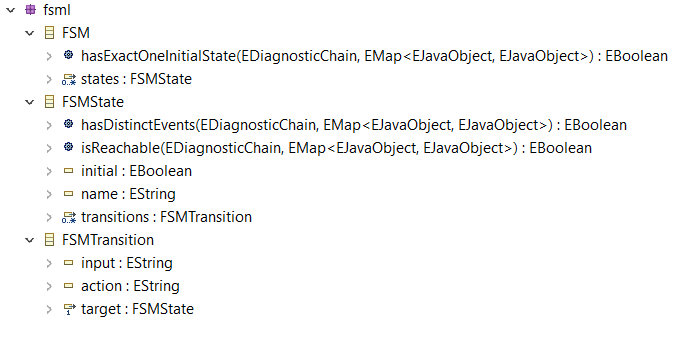
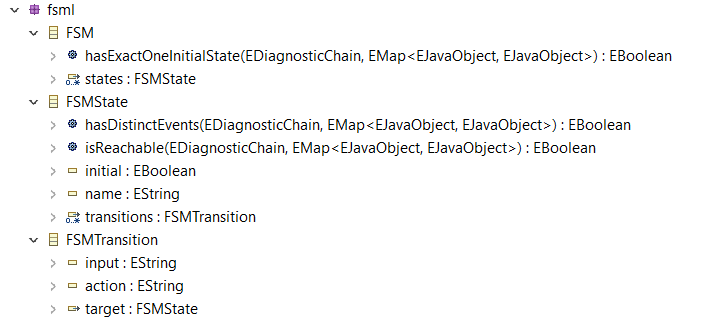
changes 1234DD

Changed region(s): [[0.0, 0.0, 0.9669, 0.9552]]

diff --git a/emf/fsml/org.softlang.metalib.emf.fsml.edit/src/org/softlang/metalib/emf/fsml/fsml/provider/FSMTransitionItemProvider.java b/emf/fsml/org.softlang.metalib.emf.fsml.edit/src/org/softlang/metalib/emf/fsml/fsml/provider/FSMTransitionItemProvider.java
@@ -68,13 +68,19 @@ public class FSMTransitionItemProvider extends ItemProviderAdapter implements IE
 	 * @generated
 	 */
 	protected void addInputPropertyDescriptor(Object object) {
-		itemPropertyDescriptors
-				.add(createItemPropertyDescriptor(((ComposeableAdapterFactory) adapterFactory).getRootAdapterFactory(),
-						getResourceLocator(), getString("_UI_FSMTransition_input_feature"),
-						getString("_UI_PropertyDescriptor_description", "_UI_FSMTransition_input_feature",
-								"_UI_FSMTransition_type"),
-						FsmlPackage.Literals.FSM_TRANSITION__INPUT, true, false, false,
-						ItemPropertyDescriptor.GENERIC_VALUE_IMAGE, null, null));
+		itemPropertyDescriptors.add
+			(createItemPropertyDescriptor
+				(((ComposeableAdapterFactory)adapterFactory).getRootAdapterFactory(),
+				 getResourceLocator(),
+				 getString("_UI_FSMTransition_input_feature"),
+				 getString("_UI_PropertyDescriptor_description", "_UI_FSMTransition_input_feature", "_UI_FSMTransition_type"),
+				 FsmlPackage.Literals.FSM_TRANSITION__INPUT,
+				 true,
+				 false,
+				 false,
+				 ItemPropertyDescriptor.GENERIC_VALUE_IMAGE,
+				 null,
+				 null));
 	}
 
 	/**
@@ -84,13 +90,19 @@ public class FSMTransitionItemProvider extends ItemProviderAdapter implements IE
 	 * @generated
 	 */
 	protected void addActionPropertyDescriptor(Object object) {
-		itemPropertyDescriptors
-				.add(createItemPropertyDescriptor(((ComposeableAdapterFactory) adapterFactory).getRootAdapterFactory(),
-						getResourceLocator(), getString("_UI_FSMTransition_action_feature"),
-						getString("_UI_PropertyDescriptor_description", "_UI_FSMTransition_action_feature",
-								"_UI_FSMTransition_type"),
-						FsmlPackage.Literals.FSM_TRANSITION__ACTION, true, false, false,
-						ItemPropertyDescriptor.GENERIC_VALUE_IMAGE, null, null));
+		itemPropertyDescriptors.add
+			(createItemPropertyDescriptor
+				(((ComposeableAdapterFactory)adapterFactory).getRootAdapterFactory(),
+				 getResourceLocator(),
+				 getString("_UI_FSMTransition_action_feature"),
+				 getString("_UI_PropertyDescriptor_description", "_UI_FSMTransition_action_feature", "_UI_FSMTransition_type"),
+				 FsmlPackage.Literals.FSM_TRANSITION__ACTION,
+				 true,
+				 false,
+				 false,
+				 ItemPropertyDescriptor.GENERIC_VALUE_IMAGE,
+				 null,
+				 null));
 	}
 
 	/**
@@ -100,12 +112,19 @@ public class FSMTransitionItemProvider extends ItemProviderAdapter implements IE
 	 * @generated
 	 */
 	protected void addTargetPropertyDescriptor(Object object) {
-		itemPropertyDescriptors
-				.add(createItemPropertyDescriptor(((ComposeableAdapterFactory) adapterFactory).getRootAdapterFactory(),
-						getResourceLocator(), getString("_UI_FSMTransition_target_feature"),
-						getString("_UI_PropertyDescriptor_description", "_UI_FSMTransition_target_feature",
-								"_UI_FSMTransition_type"),
-						FsmlPackage.Literals.FSM_TRANSITION__TARGET, true, false, true, null, null, null));
+		itemPropertyDescriptors.add
+			(createItemPropertyDescriptor
+				(((ComposeableAdapterFactory)adapterFactory).getRootAdapterFactory(),
+				 getResourceLocator(),
+				 getString("_UI_FSMTransition_target_feature"),
+				 getString("_UI_PropertyDescriptor_description", "_UI_FSMTransition_target_feature", "_UI_FSMTransition_type"),
+				 FsmlPackage.Literals.FSM_TRANSITION__TARGET,
+				 true,
+				 false,
+				 true,
+				 null,
+				 null,
+				 null));
 	}
 
 	/**
@@ -146,11 +165,10 @@ public class FSMTransitionItemProvider extends ItemProviderAdapter implements IE
 	}
 
 	/**
-	 * This handles model notifications by calling {@link #updateChildren} to
-	 * update any cached children and by creating a viewer notification, which
-	 * it passes to {@link #fireNotifyChanged}. <!-- begin-user-doc --> <!--
+	 * This handles model notifications by calling {@link #updateChildren} to update any cached
+	 * children and by creating a viewer notification, which it passes to {@link #fireNotifyChanged}.
+	 * <!-- begin-user-doc --> <!--
 	 * end-user-doc -->
-	 * 
 	 * @generated
 	 */
 	@Override
@@ -158,10 +176,10 @@ public class FSMTransitionItemProvider extends ItemProviderAdapter implements IE
 		updateChildren(notification);
 
 		switch (notification.getFeatureID(FSMTransition.class)) {
-		case FsmlPackage.FSM_TRANSITION__INPUT:
-		case FsmlPackage.FSM_TRANSITION__ACTION:
-			fireNotifyChanged(new ViewerNotification(notification, notification.getNotifier(), false, true));
-			return;
+			case FsmlPackage.FSM_TRANSITION__INPUT:
+			case FsmlPackage.FSM_TRANSITION__ACTION:
+				fireNotifyChanged(new ViewerNotification(notification, notification.getNotifier(), false, true));
+				return;
 		}
 		super.notifyChanged(notification);
 	}

diff --git a/emf/fsml/org.softlang.metalib.emf.fsml/src/org/softlang/metalib/emf/fsml/fsml/impl/FsmlPackageImpl.java b/emf/fsml/org.softlang.metalib.emf.fsml/src/org/softlang/metalib/emf/fsml/fsml/impl/FsmlPackageImpl.java
@@ -346,7 +346,7 @@ public class FsmlPackageImpl extends EPackageImpl implements FsmlPackage {
 		initEClass(fsmTransitionEClass, FSMTransition.class, "FSMTransition", !IS_ABSTRACT, !IS_INTERFACE, IS_GENERATED_INSTANCE_CLASS);
 		initEAttribute(getFSMTransition_Input(), ecorePackage.getEString(), "input", null, 0, 1, FSMTransition.class, !IS_TRANSIENT, !IS_VOLATILE, IS_CHANGEABLE, !IS_UNSETTABLE, !IS_ID, IS_UNIQUE, !IS_DERIVED, IS_ORDERED);
 		initEAttribute(getFSMTransition_Action(), ecorePackage.getEString(), "action", null, 0, 1, FSMTransition.class, !IS_TRANSIENT, !IS_VOLATILE, IS_CHANGEABLE, !IS_UNSETTABLE, !IS_ID, IS_UNIQUE, !IS_DERIVED, IS_ORDERED);
-		initEReference(getFSMTransition_Target(), this.getFSMState(), null, "target", null, 1, 1, FSMTransition.class, !IS_TRANSIENT, !IS_VOLATILE, IS_CHANGEABLE, !IS_COMPOSITE, IS_RESOLVE_PROXIES, !IS_UNSETTABLE, IS_UNIQUE, !IS_DERIVED, IS_ORDERED);
+		initEReference(getFSMTransition_Target(), this.getFSMState(), null, "target", null, 0, 1, FSMTransition.class, !IS_TRANSIENT, !IS_VOLATILE, IS_CHANGEABLE, !IS_COMPOSITE, IS_RESOLVE_PROXIES, !IS_UNSETTABLE, IS_UNIQUE, !IS_DERIVED, IS_ORDERED);
 
 		// Create resource
 		createResource(eNS_URI);

diff --git a/emf/fsml/org.softlang.metalib.emf.fsml.editor/src/org/softlang/metalib/emf/fsml/fsml/presentation/FsmlModelWizard.java b/emf/fsml/org.softlang.metalib.emf.fsml.editor/src/org/softlang/metalib/emf/fsml/fsml/presentation/FsmlModelWizard.java
@@ -12,14 +12,9 @@ import java.util.List;
 import java.util.Map;
 import java.util.MissingResourceException;
 import java.util.StringTokenizer;
-
-import org.eclipse.emf.common.CommonPlugin;
-
 import org.eclipse.emf.common.util.URI;
 
 import org.eclipse.emf.ecore.EClass;
-import org.eclipse.emf.ecore.EClassifier;
-
 import org.eclipse.emf.ecore.resource.Resource;
 import org.eclipse.emf.ecore.resource.ResourceSet;
 

diff --git a/emf/fsml/org.softlang.metalib.emf.fsml/src/org/softlang/metalib/emf/fsml/fsml/FSMTransition.java b/emf/fsml/org.softlang.metalib.emf.fsml/src/org/softlang/metalib/emf/fsml/fsml/FSMTransition.java
@@ -86,7 +86,7 @@ public interface FSMTransition extends EObject {
 	 * @return the value of the '<em>Target</em>' reference.
 	 * @see #setTarget(FSMState)
 	 * @see org.softlang.metalib.emf.fsml.fsml.FsmlPackage#getFSMTransition_Target()
-	 * @model required="true"
+	 * @model
 	 * @generated
 	 */
 	FSMState getTarget();

diff --git a/emf/fsml/org.softlang.metalib.emf.fsml/src/org/softlang/metalib/emf/fsml/Simulation.java b/emf/fsml/org.softlang.metalib.emf.fsml/src/org/softlang/metalib/emf/fsml/Simulation.java
@@ -40,7 +40,9 @@ public class Simulation {
 			return;
 
 		// Apply the next transition and inform the listeners.
-		current = next.getTarget();
+		if(next.getTarget() != null)
+			current = next.getTarget();
+		
 		for (SimulationListener l : simulationListeners)
 			l.apply(next);
 
